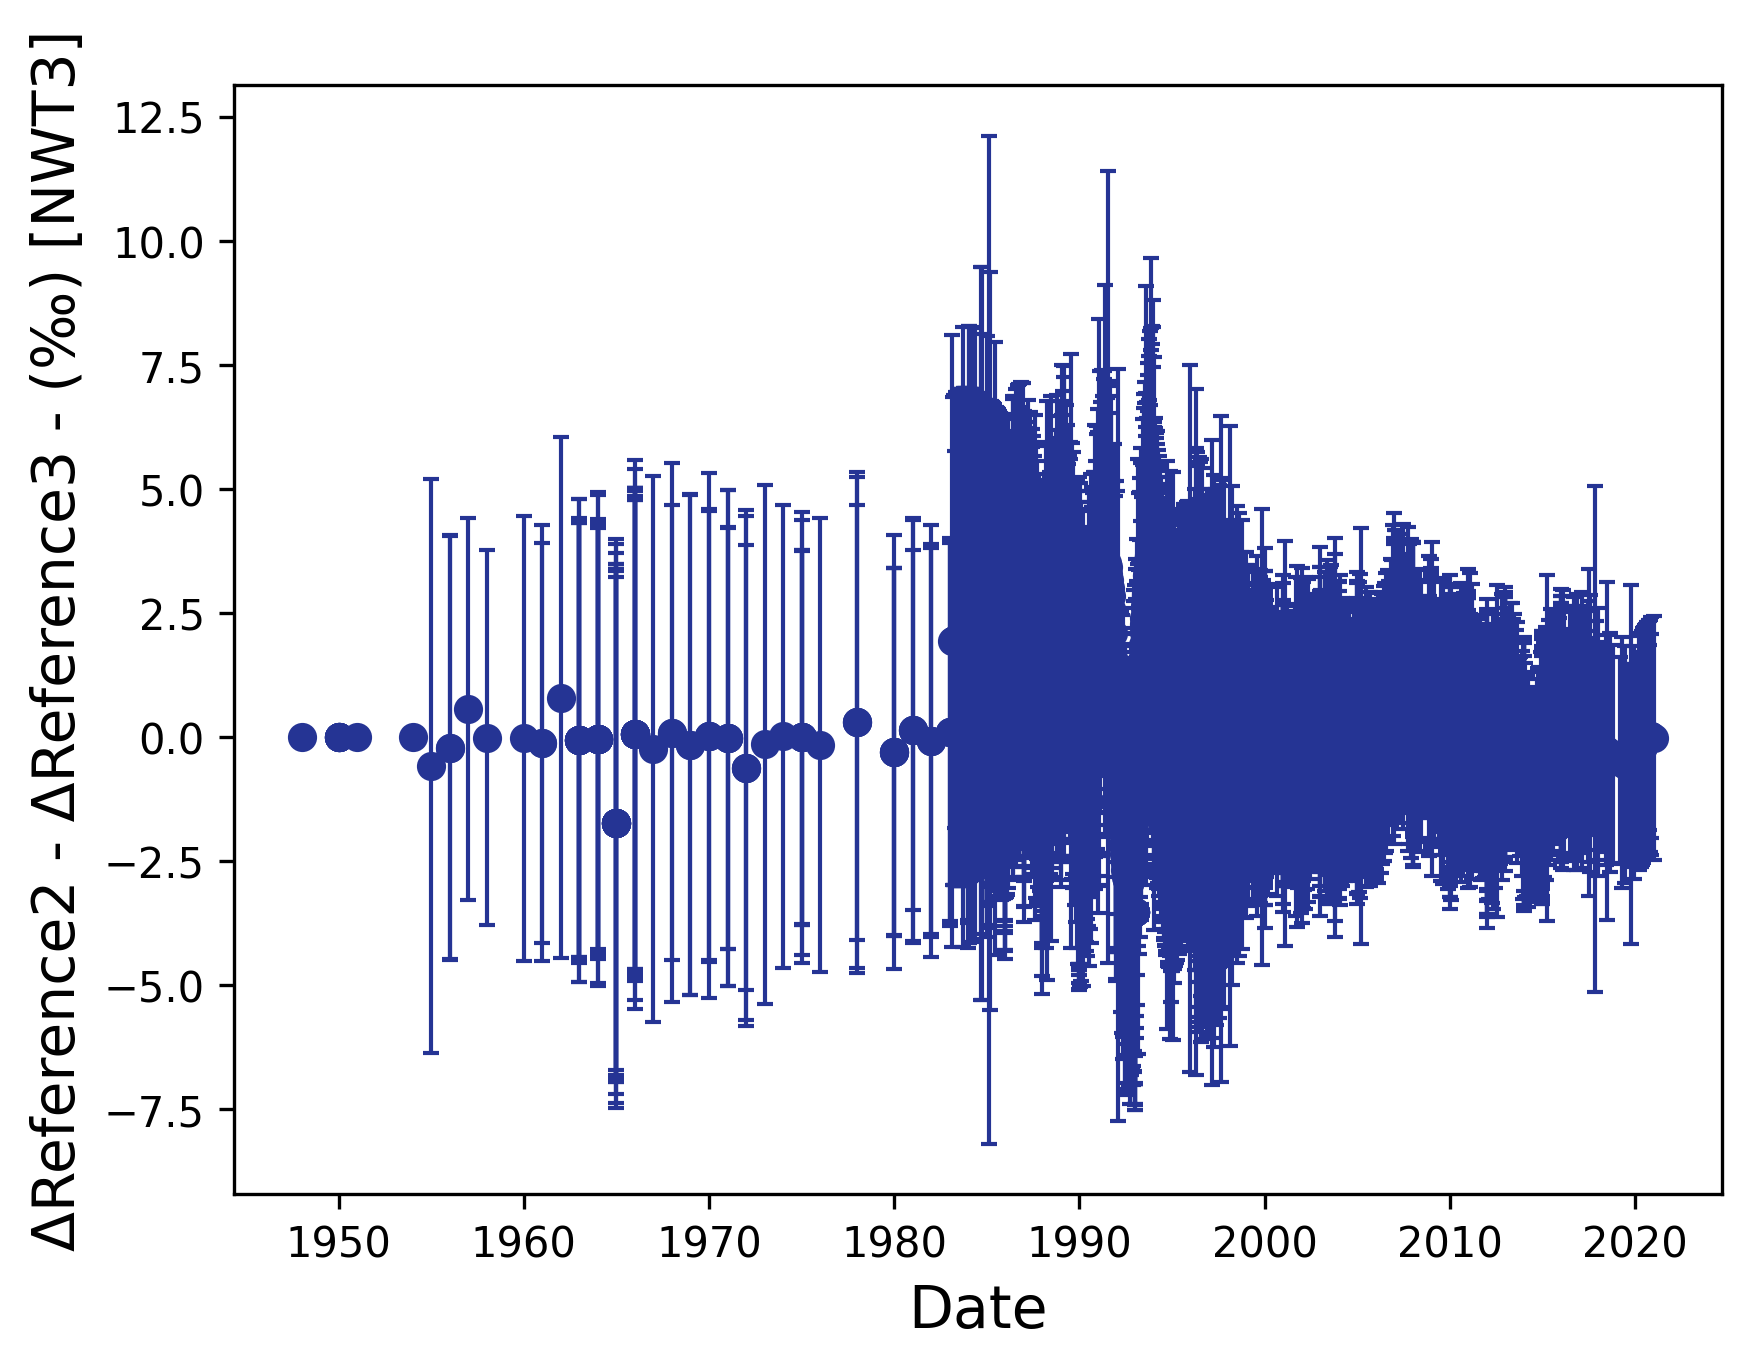
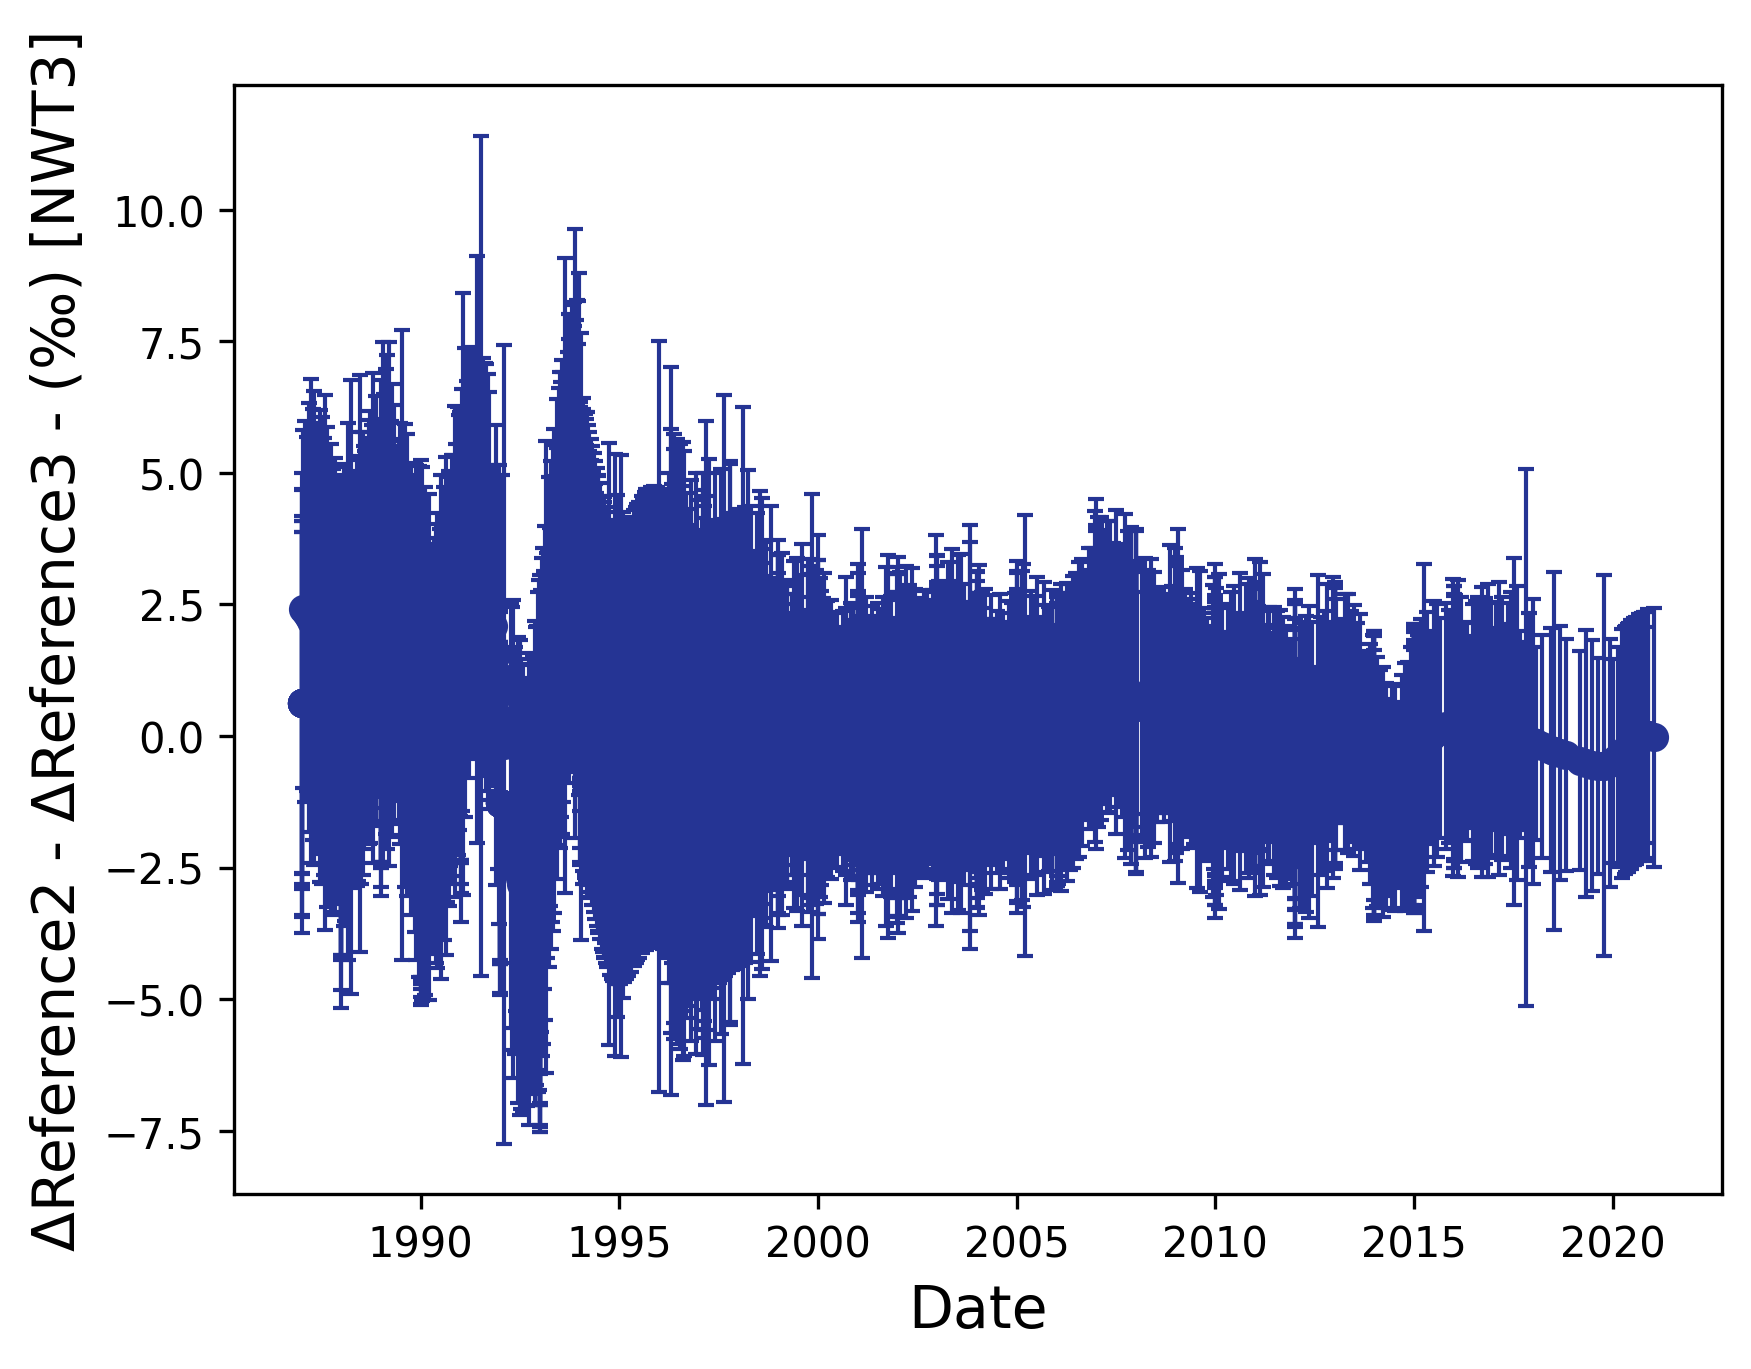
beginning the analysis

diff --git a/SOAR_Tree_rings/scripts/soar_analysis1.py b/SOAR_Tree_rings/scripts/soar_analysis1.py
@@ -9,6 +9,9 @@ df = pd.read_excel('C:/Users/clewis/IdeaProjects/GNS/soar_tree_rings/output/samp
 ref2 = pd.read_excel('C:/Users/clewis/IdeaProjects/GNS/soar_tree_rings/output/harmonized_dataset.xlsx')
 ref3 = pd.read_excel('C:/Users/clewis/IdeaProjects/GNS/soar_tree_rings/output/reference3.xlsx')
 
+df = df.loc[df['Decimal_date'] > 1987]
+ref2 = ref2.loc[ref2['Decimal_date'] > 1987]
+ref3 = ref3.loc[ref3['Decimal_date'] > 1987]
 # I need to drop the index column in order to drop some duplicates that made their way through
 df = df[['Ring code', 'R number', 'Site', 'F14C',
          'F14Cerr', 'Decimal_date', 'D14C', 'D14Cerr', 'Lat', 'Lon', '#location',
@@ -54,7 +57,7 @@ df['weightedstderr_D14C_1'] = mtarray2
 
 
 """
-First, let's explore the samples wrt Reference 2 (Harmonized Dataset) 
+How is the data when viewed relative to reference 2 and reference 3? 
 """
 # The difference between the CORRECTED samples, and REFERENCE 2, the harmonized reference
 df['r2_diff_trend'] = df['D14C_1'] - df['D14C_ref2t_mean']
@@ -70,6 +73,49 @@ df['deltadelta_err'] = np.sqrt(df['r2_diff_trend_errprop']**2 + df['r3_diff_tren
 #
 # df.to_excel('C:/Users/clewis/IdeaProjects/GNS/soar_tree_rings/output/testing.xlsx')
 #
+
+
+"""
+Break up the data by general latitude bands 
+"""
+# you can easily see the different latitude bands where the data falls in the 3D plot, see 3d3.png, or you can recreate
+# it below and actually play around with moving the plot. I determined where to draw the bands based on this visual cue
+
+b1 = df.loc[(df['Lat'] > - 40) & (df['Lat'] < - 39)]
+b2 = df.loc[(df['Lat'] > - 42) & (df['Lat'] < - 40)]
+b3 = df.loc[(df['Lat'] > - 44.25) & (df['Lat'] < - 43)]
+b4 = df.loc[(df['Lat'] > - 47) & (df['Lat'] < - 46)]
+b5 = df.loc[(df['Lat'] > - 48) & (df['Lat'] < - 47)]
+b6 = df.loc[(df['Lat'] > - 53) & (df['Lat'] < - 52)]
+b7 = df.loc[(df['Lat'] > - 54) & (df['Lat'] < - 53)]
+b8 = df.loc[(df['Lat'] > - 55.5) & (df['Lat'] < - 54)]
+
+# See Plot 2 for the data based on the indexing above
+# now we find the summary data based on each
+
+datas = [b1, b2, b3, b4, b5, b6, b7, b8]
+lats = [-39, -41, -43, -46, -47, -52, -53, -54]
+mean_array_ref2 = []
+std_error_array_ref2 = []
+mean_array_ref3 = []
+std_error_array_ref3 = []
+stdev1 = []
+stdev2 = []
+for i in range(0, len(datas)):
+    data = datas[i]  # grab first dataset
+    mean1 = np.mean(data['r2_diff_trend'])
+    mean2 = np.mean(data['r3_diff_trend'])
+    stdevr1 = (np.std(data['r2_diff_trend']))
+    stdevr2 = (np.std(data['r3_diff_trend']))
+    std_err2 = (np.std(data['r2_diff_trend'])) / len(data)
+    std_err3 = (np.std(data['r3_diff_trend'])) / len(data)
+
+    mean_array_ref2.append(mean1)
+    mean_array_ref3.append(mean2)
+    stdev1.append(stdevr1)
+    stdev2.append(stdevr2)
+    std_error_array_ref2.append(std_err2)
+    std_error_array_ref3.append(std_err3)
 
 
 """
@@ -92,7 +138,9 @@ a1, a2, a3, a4, a5, a6 = '#253494','#7fcdbb','#2c7fb8','#c7e9b4','#41b6c4','#fff
 c1, c2, c3 = '#ece2f0', '#a6bddb', '#1c9099'
 d1, d2 = '#ef8a62', '#67a9cf'
 size1 = 10
-
+ch1 = 'black'
+ch2 = a3
+alph = .9
 # Look at ALL the data relative to Reference 2 and Reference 3
 p1 = plotfunc_2line(ref2['Decimal_date'], ref2['D14C'], color_p1='black', size1=5, px2=ref3['Decimal_date'], py2=ref3['D14C'], sx1=df['Decimal_date'], sy1=df['D14C_1'], name='firstlook')
 
@@ -107,24 +155,17 @@ p2 = plotfunc_error(df['Decimal_date'], df['deltadelta'], df['deltadelta_err'], 
 #             dpi=300, bbox_inches="tight")
 
 
-
-
-
-
-
-
-
-
 fig = plt.figure(4, figsize=(10, 12.5))
 gs = gridspec.GridSpec(6, 1)
 gs.update(wspace=.35, hspace=.25)
 
 xtr_subsplot = fig.add_subplot(gs[0:3, 0:1])
 
-plt.errorbar(df['Decimal_date'], df['D14C'], yerr=df['D14Cerr'], fmt='o', color='black', ecolor='black', elinewidth=1, capsize=2, alpha = 0.5)
-plt.plot(ref2['Decimal_date'], ref2['D14C'], color=a1)
-plt.plot(ref3['Decimal_date'], ref3['D14C'], color=a2)
+# plt.errorbar(df['Decimal_date'], df['D14C'], yerr=df['D14Cerr'], fmt='o', color='black', ecolor='black', elinewidth=1, capsize=2, alpha = 0.5)
+plt.plot(df['Decimal_date'],df['D14C_ref2t_mean'], color=a1, label='R2 (BHD+CGO, harmonized')
+plt.plot(df['Decimal_date'], df['D14C_ref3t_mean'], color=a2, label='R3 (BHD w CGO in gaps')
 plt.ylabel('\u0394$^1$$^4$CO$_2$ (\u2030)', fontsize=14)  # label the y axis
+plt.legend()
 
 xtr_subsplot = fig.add_subplot(gs[3:4, 0:1])
 plt.errorbar(df['Decimal_date'], df['r2_diff_trend'], yerr=df['r2_diff_trend_errprop'], fmt='o', color='black', ecolor='black', elinewidth=1, capsize=2, alpha = 0.5)
@@ -136,23 +177,114 @@ plt.ylabel('S - R3', fontsize=14)  # label the y axis
 
 xtr_subsplot = fig.add_subplot(gs[5:6, 0:1])
 plt.errorbar(df['Decimal_date'], df['deltadelta'], yerr=df['deltadelta_err'], fmt='o', color='black', ecolor='black', elinewidth=1, capsize=2, alpha = 0.5)
-plt.ylabel('R2 - R3', fontsize=14)  # label the y axis
+plt.ylabel('plot b - c', fontsize=14)  # label the y axis
 plt.xlabel('Date', fontsize=14)  # label the y axis
 plt.savefig('C:/Users/clewis/IdeaProjects/GNS/soar_tree_rings/output/plot1.png',
             dpi=300, bbox_inches="tight")
 plt.close()
 
+"""3d PLOT"""
+# fig = plt.figure()
+# ax = plt.axes(projection='3d')
+# ax.scatter(df['Decimal_date'], df['Lat'], df['r2_diff_trend'], c=df['r2_diff_trend'], cmap='viridis', linewidth=0.5)
+# ax.set_xlabel('Date')
+# ax.set_ylabel('Lat')
+# ax.set_zlabel('Sample - ref');
+# # plt.savefig('C:/Users/clewis/IdeaProjects/GNS/soar_tree_rings/output/plot_3d.png',
+# #             dpi=300, bbox_inches="tight")
+# # plt.close()
+# plt.show()
 
 
+fig = plt.figure(4, figsize=(10, 12.5))
+gs = gridspec.GridSpec(8, 4)
+gs.update(wspace=.15, hspace=.25)
 
-fig = plt.figure()
-ax = plt.axes(projection='3d')
-ax.scatter(df['Decimal_date'], df['Lat'], df['r2_diff_trend'], c=df['r2_diff_trend'], cmap='viridis', linewidth=0.5)
-ax.set_xlabel('Date')
-ax.set_ylabel('Lat')
-ax.set_zlabel('Sample - ref');
-plt.savefig('C:/Users/clewis/IdeaProjects/GNS/soar_tree_rings/output/plot_3d.png',
+xtr_subsplot = fig.add_subplot(gs[0:2, 0:2])
+plt.errorbar(b1['Decimal_date'], b1['r2_diff_trend'], yerr=b1['r2_diff_trend_errprop'], fmt='o', color=ch1, ecolor=ch1, elinewidth=1, capsize=2, alpha = alph, label='R2')
+plt.errorbar(b1['Decimal_date'], b1['r3_diff_trend'], yerr=b1['r3_diff_trend_errprop'], fmt='o', color=ch2, ecolor=ch2, elinewidth=1, capsize=2, alpha = alph, label='R3')
+plt.xticks([])
+plt.xlim(1987, 2020)
+plt.ylim(-10, 15)
+
+xtr_subsplot = fig.add_subplot(gs[0:2, 2:4])
+plt.errorbar(b2['Decimal_date'], b2['r2_diff_trend'], yerr=b2['r2_diff_trend_errprop'], fmt='o', color=ch1, ecolor=ch1, elinewidth=1, capsize=2, alpha = alph, label='R2')
+plt.errorbar(b2['Decimal_date'], b2['r3_diff_trend'], yerr=b2['r3_diff_trend_errprop'], fmt='o', color=ch2, ecolor=ch2, elinewidth=1, capsize=2, alpha = alph, label='R3')
+plt.legend()
+plt.xticks([])
+plt.xlim(1987, 2020)
+plt.ylim(-10, 15)
+plt.yticks([])
+xtr_subsplot = fig.add_subplot(gs[2:4, 0:2])
+plt.errorbar(b3['Decimal_date'], b3['r2_diff_trend'], yerr=b3['r2_diff_trend_errprop'], fmt='o', color=ch1, ecolor=ch1, elinewidth=1, capsize=2, alpha = alph, label='R2')
+plt.errorbar(b3['Decimal_date'], b3['r3_diff_trend'], yerr=b3['r3_diff_trend_errprop'], fmt='o', color=ch2, ecolor=ch2, elinewidth=1, capsize=2, alpha = alph, label='R3')
+plt.xticks([])
+plt.xlim(1987, 2020)
+plt.ylim(-10, 15)
+xtr_subsplot = fig.add_subplot(gs[2:4, 2:4])
+plt.errorbar(b4['Decimal_date'], b4['r2_diff_trend'], yerr=b4['r2_diff_trend_errprop'], fmt='o', color=ch1, ecolor=ch1, elinewidth=1, capsize=2, alpha = alph, label='R2')
+plt.errorbar(b4['Decimal_date'], b4['r3_diff_trend'], yerr=b4['r3_diff_trend_errprop'], fmt='o', color=ch2, ecolor=ch2, elinewidth=1, capsize=2, alpha = alph, label='R3')
+plt.xticks([])
+plt.xlim(1987, 2020)
+plt.ylim(-10, 15)
+plt.yticks([])
+xtr_subsplot = fig.add_subplot(gs[4:6, 0:2])
+plt.errorbar(b5['Decimal_date'], b5['r2_diff_trend'], yerr=b5['r2_diff_trend_errprop'], fmt='o', color=ch1, ecolor=ch1, elinewidth=1, capsize=2, alpha = alph, label = 'R2')
+plt.errorbar(b5['Decimal_date'], b5['r3_diff_trend'], yerr=b5['r3_diff_trend_errprop'], fmt='o', color=ch2, ecolor=ch2, elinewidth=1, capsize=2, alpha = alph, label='R3')
+plt.xticks([])
+plt.xlim(1987, 2020)
+plt.ylim(-10, 15)
+xtr_subsplot = fig.add_subplot(gs[4:6, 2:4])
+plt.errorbar(b6['Decimal_date'], b6['r2_diff_trend'], yerr=b6['r2_diff_trend_errprop'], fmt='o', color=ch1, ecolor=ch1, elinewidth=1, capsize=2, alpha = alph, label='R2')
+plt.errorbar(b6['Decimal_date'], b6['r3_diff_trend'], yerr=b6['r3_diff_trend_errprop'], fmt='o', color=ch2, ecolor=ch2, elinewidth=1, capsize=2, alpha = alph, label='R3')
+plt.xticks([])
+plt.xlim(1987, 2020)
+plt.ylim(-10, 15)
+plt.yticks([])
+xtr_subsplot = fig.add_subplot(gs[6:8, 0:2])
+plt.errorbar(b7['Decimal_date'], b7['r2_diff_trend'], yerr=b7['r2_diff_trend_errprop'], fmt='o', color=ch1, ecolor=ch1, elinewidth=1, capsize=2, alpha = alph, label='R2')
+plt.errorbar(b7['Decimal_date'], b7['r3_diff_trend'], yerr=b7['r3_diff_trend_errprop'], fmt='o', color=ch2, ecolor=ch2, elinewidth=1, capsize=2, alpha = alph, label='R3')
+plt.xlim(1987, 2020)
+plt.ylim(-10, 15)
+plt.xlabel('Date', fontsize=14)  # label the y axis
+xtr_subsplot = fig.add_subplot(gs[6:8, 2:4])
+plt.errorbar(b8['Decimal_date'], b8['r2_diff_trend'], yerr=b8['r2_diff_trend_errprop'], fmt='o', color=ch1, ecolor=ch1, elinewidth=1, capsize=2, alpha = alph, label='R2')
+plt.errorbar(b8['Decimal_date'], b8['r3_diff_trend'], yerr=b8['r3_diff_trend_errprop'], fmt='o', color=ch2, ecolor=ch2, elinewidth=1, capsize=2, alpha = alph, label='R3')
+plt.xlim(1987, 2020)
+plt.ylim(-10, 15)
+plt.yticks([])
+
+# plt.ylabel('plot b - c', fontsize=14)  # label the y axis
+plt.xlabel('Date', fontsize=14)  # label the y axis
+plt.savefig('C:/Users/clewis/IdeaProjects/GNS/soar_tree_rings/output/plot2.png',
             dpi=300, bbox_inches="tight")
 plt.close()
+
+
+
+fig = plt.figure(4, figsize=(10, 12.5))
+gs = gridspec.GridSpec(2, 2)
+gs.update(wspace=.15, hspace=0)
+
+xtr_subsplot = fig.add_subplot(gs[0:1, 0:2])
+plt.errorbar(lats, mean_array_ref2, std_error_array_ref2, fmt='o', color=ch1, ecolor=ch1, elinewidth=1, capsize=2, alpha = alph, label='R2')
+plt.errorbar(lats, mean_array_ref3, std_error_array_ref3, fmt='o', color=ch2, ecolor=ch2, elinewidth=1, capsize=2, alpha = alph, label='R3')
+plt.xticks([])
+plt.ylabel('Average Difference from Reference', fontsize=14)  # label the y axis
+
+xtr_subsplot = fig.add_subplot(gs[1:2, 0:2])
+plt.errorbar(lats, mean_array_ref2, stdevr1, fmt='o', color=ch1, ecolor=ch1, elinewidth=1, capsize=2, alpha = alph, label='R2')
+plt.errorbar(lats, mean_array_ref3, stdevr2, fmt='o', color=ch2, ecolor=ch2, elinewidth=1, capsize=2, alpha = alph, label='R3')
+plt.xlabel('Latitude', fontsize=14)  # label the y axis
+plt.ylabel('Average Difference from Reference', fontsize=14)  # label the y axis
+
+plt.savefig('C:/Users/clewis/IdeaProjects/GNS/soar_tree_rings/output/plot3.png',
+            dpi=300, bbox_inches="tight")
+plt.close()
+
+
 #
-#
+# mean_array_ref2.append(mean1)
+# mean_array_ref3.append(mean2)
+# std_error_array_ref2.append(std_err2)
+# std_error_array_ref3.append(std_err3)

diff --git a/blank_corrections/blank_corr_functions.py b/blank_corrections/blank_corr_functions.py
@@ -436,8 +436,8 @@ def blank_corr_101322(input_name, date_bound_input, num_list):
     stds_dataframe = stds_dataframe.drop_duplicates(subset = 'TP', keep='first')
 
     df_condensed = df[['TP','MCC', 'MCC_1sigma','Standards used']]
-    df_condensed = df_condensed.rename(columns={'MCC': 'rts_bl_av',
-                                                'MCC_1sigma': 'rts_bl_av_error',
+    df_condensed = df_condensed.rename(columns={'MCC': 'Blank rts assigned',
+                                                'MCC_1sigma': 'Blank rts err assigned',
                                                 'Standards used': 'TPs Blanks'})
 
     # refs.to_csv(r'I:/C14Data/C14_blank_corrections_dev/MCC_output/TW{}_MCC.csv'.format(input_name))

diff --git a/SOAR_Tree_rings/scripts/refereces_to_sample_xvals.py b/SOAR_Tree_rings/scripts/refereces_to_sample_xvals.py
@@ -1,7 +1,10 @@
 """
+October 17, 2022
+Data outputs properly, but the final trended line isn't really smooth at all. The trended lines should be really smooth,
+free of jagged peaks. Have I actually used smooth instead of trend? I do both...
+
 October 14, 2022
 Still troubleshooting the data output here, dates are coming out funky I think because of scrambling along indexes
-
 
 October 10, 2022
 
